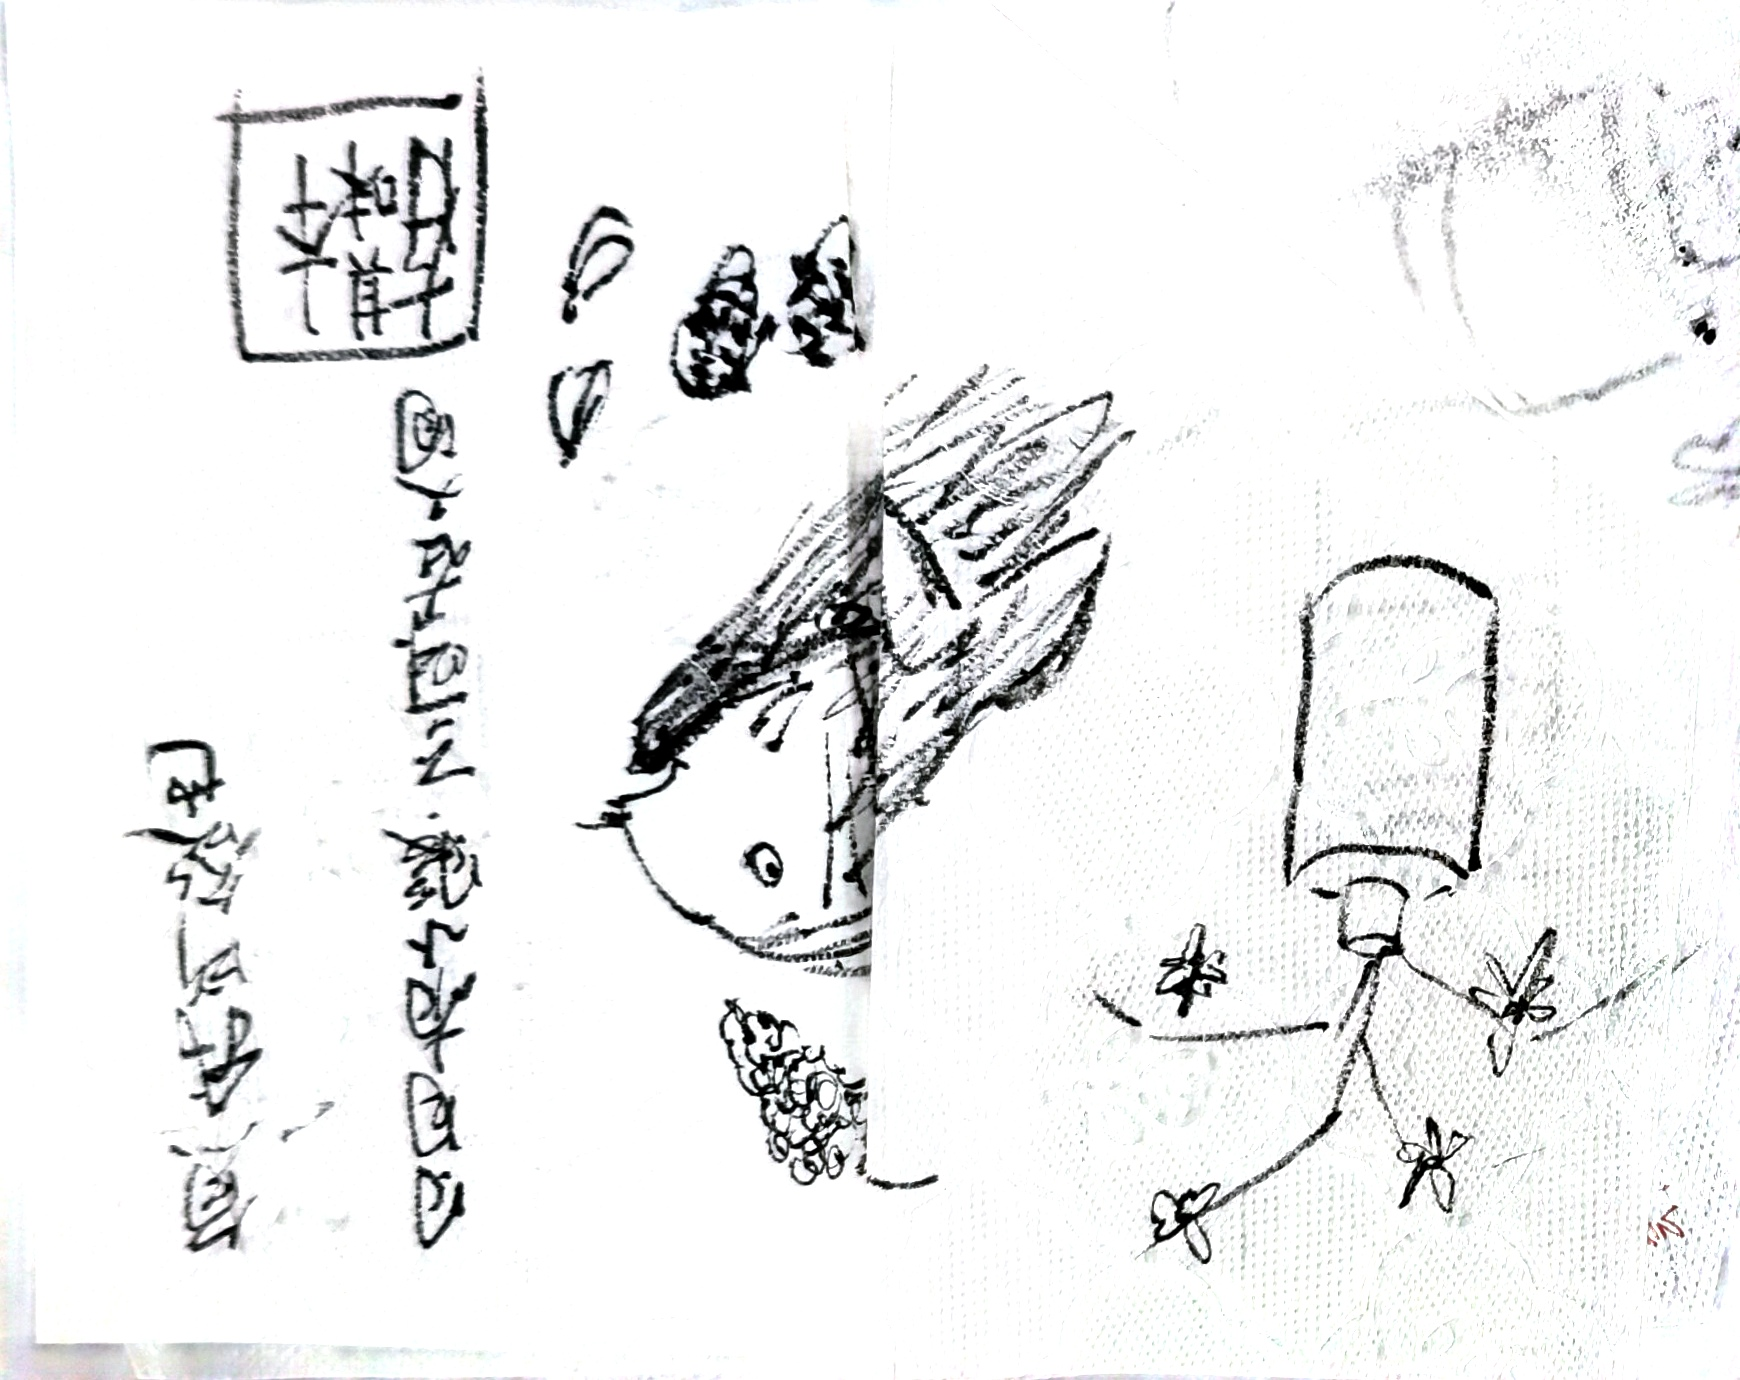
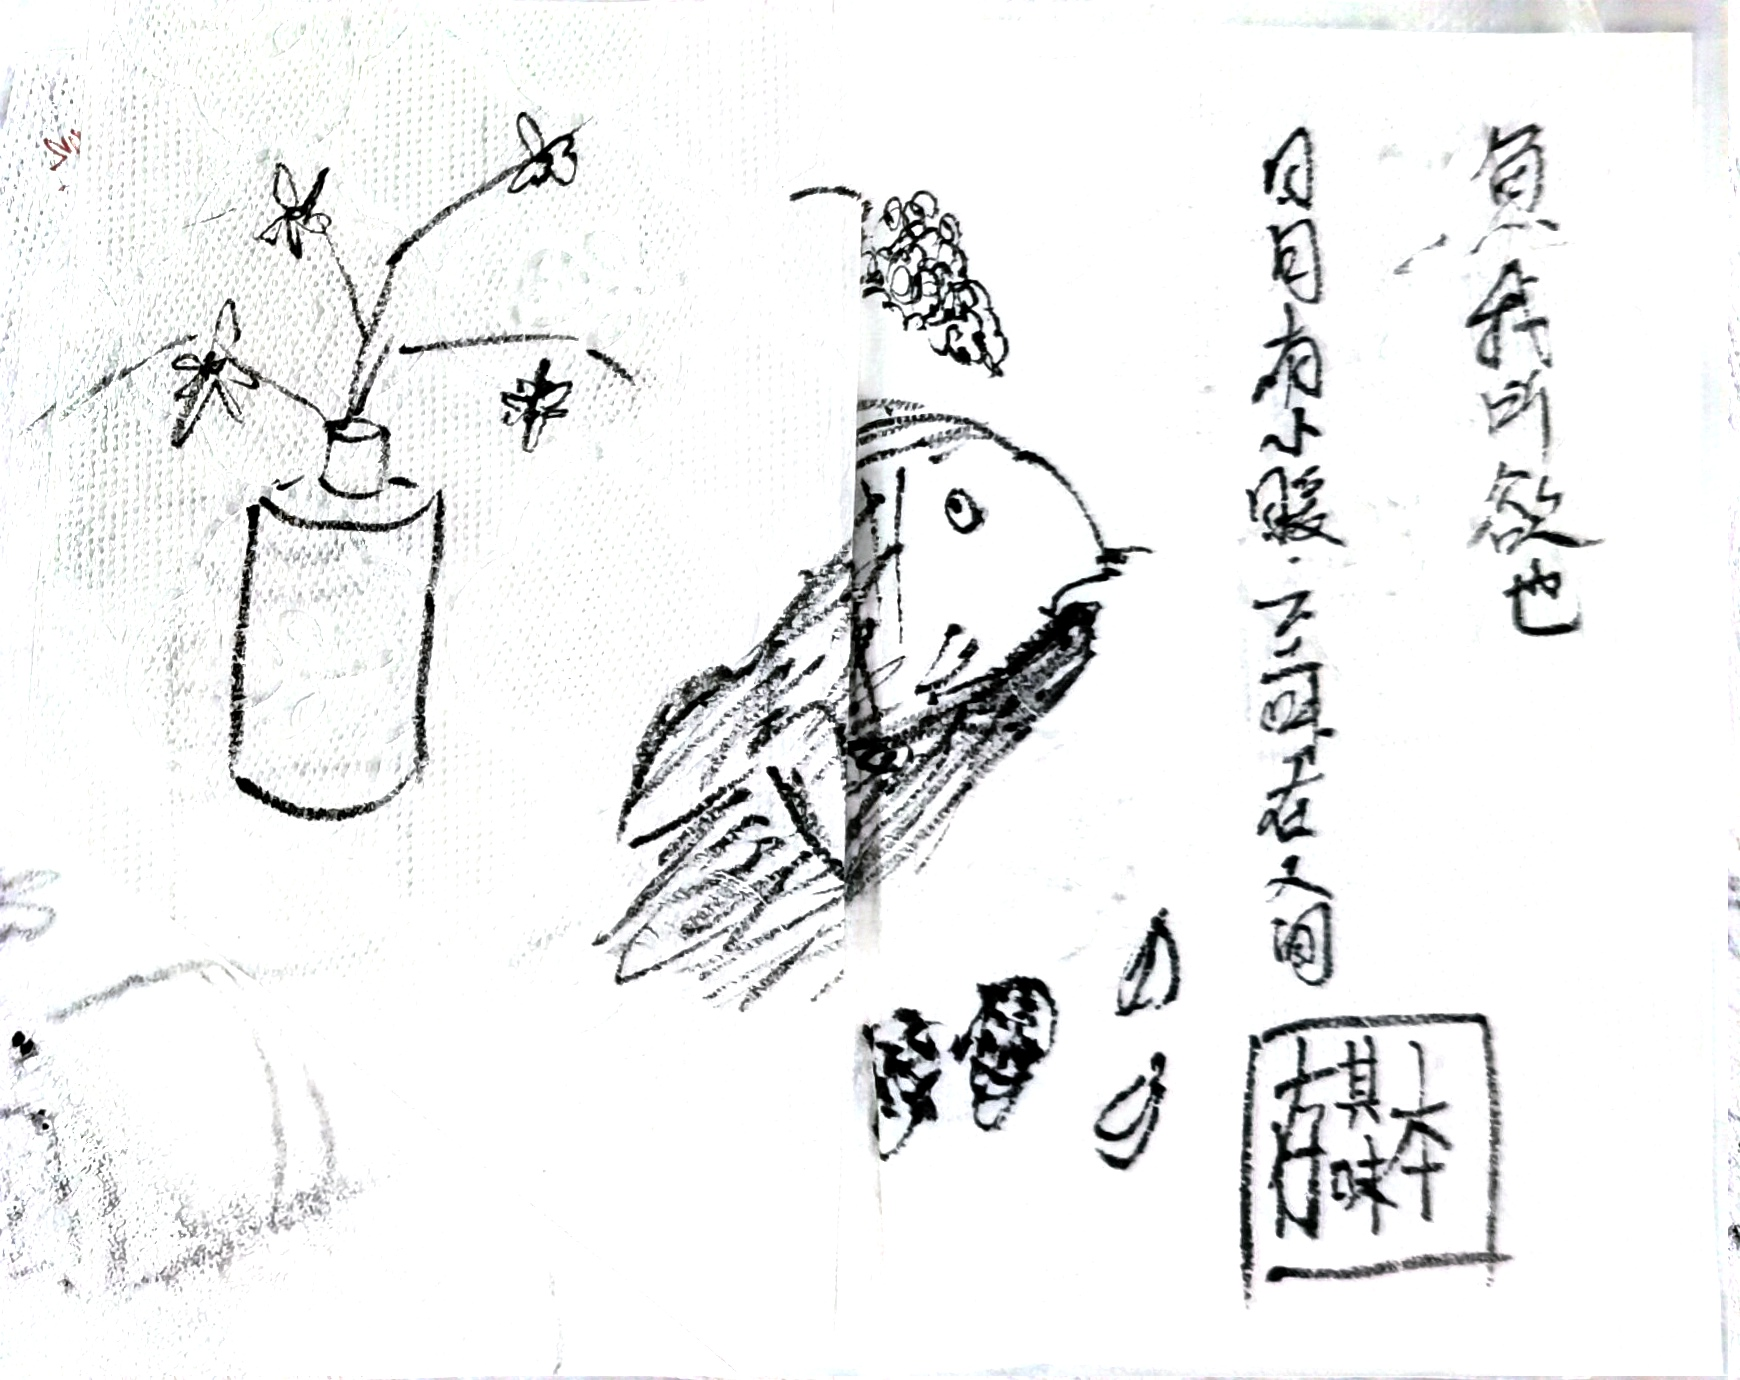
Update some of Xiaoli's work

diff --git a/docs/小丽/2.md b/docs/小丽/2.md
@@ -1,0 +1,69 @@
+# 二
+
+![](../../dataset/xiaoli/7.jpg)
+
+现在我们进入了圆规文的领域。这是《丽班和平万岁——“圆规文”及部分文献收藏集》的封面。
+
+> 圆规文是什么？有一段事件小丽坐在班长前面，由于小丽过于丽谱，班长经常以用圆规戳小丽为要挟让他不要太丽谱。最后达成协议：小丽写圆规文（即丽谱的文章），班长不再戳小丽。这一协议在下面有图片。
+
+![](../../dataset/xiaoli/8.jpg)
+
+这是上文所说的《丽班互不侵犯条约》。这是开的《苏德互不侵犯条约》的玩笑，当然这个条约的最终结果也差不多。
+
+由于条约一式两份，为了方便，小丽用钢笔在餐巾纸上写内容，然后撕成两层，因此图像质量非常糟糕，敬请认真阅读。
+
+![](../../dataset/xiaoli/9.jpg)
+
+这是小丽的圆规文，用《出师表》和《孙权劝学》为基础改写，应该很容易就可以看懂，除了……
+
+> 为什么是蚯蚓？纯属几次机缘巧合。生物课上老师说蚯蚓吃树叶；小丽踩树叶，说这是班长。所以就变成了“蚯蚓吃班长”。
+
+![](../../dataset/xiaoli/10.jpg)
+
+这是小丽拟写的《涂林东衙临时约法》，在标题上仿照[《中华民国临时约法》](https://zh.wikipedia.org/zh-cn/%E4%B8%AD%E8%8F%AF%E6%B0%91%E5%9C%8B%E8%87%A8%E6%99%82%E7%B4%84%E6%B3%95)。
+
+![](../../dataset/xiaoli/11.jpg)
+
+这是小丽画的（理论上来说是第一版）涂林币，纪念丽班合作，不过不久后就破裂了……
+
+![](../../dataset/xiaoli/12.jpg)
+
+这是小丽仿照[《龟虽寿》](https://zh.wikipedia.org/zh-cn/%E9%BE%9C%E9%9B%96%E5%A3%BD)写的《规虽寿》，纯属玩笑。
+
+![](../../dataset/xiaoli/13.jpg)
+
+这是班长根据南宋[交子](https://zh.wikipedia.org/zh-cn/%E4%BA%A4%E5%AD%90)图片绘制的“小丽新币”。与上面提到的一样，也是为了纪念丽班合作。
+
+![](../../dataset/xiaoli/14.jpg)
+
+小丽根据[《狂人日记》](https://zh.wikipedia.org/zh-cn/%E7%8B%82%E4%BA%BA%E6%97%A5%E8%AE%B0)改写了《老班日记》，将叙事的重点放在了圆规上，也算是呼应了这些文章的类型：圆规文。下面的配图和错字修改[^1]是雷总所做。
+
+![](../../dataset/xiaoli/15.jpg)
+
+小丽根据[《愚公移山》](https://zh.wikipedia.org/zh-cn/%E6%84%9A%E5%85%AC%E7%A7%BB%E5%B1%B1)改写的《愚公移规》，仅仅是一个玩笑，貌似没有深层含义。
+
+![](../../dataset/xiaoli/16.jpg)
+
+小丽自创的牛顿第四定律，事实上他确实吃过圆规[^2]。雷总进行了部分修改。
+
+![](../../dataset/xiaoli/17.jpg)
+
+这是小丽与班长签署的《丽班和平条约》的善后章程，主要补充规定了没能完全执行的部分，并且延长了原协议的有效期。不过从这里也可以看出条约履行得并不顺畅。
+
+![](../../dataset/xiaoli/18.jpg)
+
+本作品作者无法确定，经过本人极其不严谨的分析，嫌疑人如下：
+
+- 旺仔（字体相近）
+- 庄总（右上角的宣传语是他写的）
+- 小丽（这就不用解释了）
+
+这是涂林币的早期版本，当然并没有大量印刷，但是它的价值在于右上角的卖班长的宣传语，后来在其他资料中没有再次发现。
+
+![](../../dataset/xiaoli/19.jpg)
+
+……
+
+[^1]: 实际上这里不应该修改错字，因为我们伟大的鲁迅先生在《狂人日记》里也写的是“叶”。
+
+[^2]: 我的意思是，把圆规拆下来然后在嘴里嚼。（好像还是很奇怪？）

diff --git a/docs/小丽/4.md b/docs/小丽/4.md
@@ -1,0 +1,46 @@
+# 四
+
+![](../../dataset/xiaoli/26.jpg)
+
+这是小丽根据[《雁门太守行》](https://zh.wikisource.org/wiki/%E9%9B%81%E9%96%80%E5%A4%AA%E5%AE%88%E8%A1%8C)，用元素名称替换同音的字，写成的《雁钔钛守行》。
+
+![](../../dataset/xiaoli/27.jpg)
+
+这是一件标准扫描，从上至下分别是：
+
+- 小丽和班长保存了很长时间的树叶。关于为什么是树叶，请见前面几页关于“蚯蚓吃班长”的介绍。
+- 姚姐的丽谱句子。
+- 小丽根据已经丢失的小丽化工厂销售清单重新制作的样品。
+
+> 小丽化工厂是什么？小丽非常喜欢危险的化学试剂，他从姚姐和雪处用饭卡购买了很多化学药剂（硫酸铜、氨水、粪臭素、氢氧化钠、硫酸、硝酸等等等等），并使用这些试剂制作了很多虽然纯度不高，但是杀伤力（对于人和动物）很大的二级产品。
+
+> 顺便提一下，关于小丽化工厂的一些著名论断：  
+*这东西有强烈的腐蚀性！！！*，波波评硫酸铜；  
+*你这是违法的！！！*，卢瑟福评路中间的硫酸瓶子。
+
+下面进入**建议全文背诵**区域。以下两篇小丽和姚姐的作品[^1]，尤其是第一篇，将会附有非常长的解释，但是对于理解涂林非常重要，因此建议读者认真阅读。读透这两篇文章是提交涂林文字作品的前提！
+
+![](../../dataset/xiaoli/28.jpg)
+
+注释：
+
+- “涛妈赶着一群猪，跑到河边去喝水。”  
+这句看似波澜不惊的句子，其实是暗指涛妈（数学老师）所讲的猪喝水（即[将军饮马](https://baijiahao.baidu.com/s?id=1789572614038408621)）模型。按照小丽自己的说法，“跑”突出了涛妈讲通模型的急切。
+- “问这猪是咋死的，这头猪是笨死的。”  
+涛妈在讲解猪喝水模型时说：“你们噢……你知道那猪为什么没喝到水？笨死的！”
+- “放长线，钓大鱼，钓到一个 PAuX；PAuX，PAuX，PAuX 啊 PAuX！”  
+PAuX 是我们当时的年级主任。这句的对应事件是小丽拿了个旧修正带，当钓鱼的样子甩到楼下[^2]，一边在喊以上几句话。
+- “拉：你脑子有洞啊！”  
+拉拉是我们的班主任，她恰好看到了小丽的以上行为，并如此骂他。
+- “……采到一筐老班长。还没到家就吃光……”  
+见上文“蚯蚓吃班长”的典故。
+- “好一朵香香的老班长……尝一尝呀尝一尝”  
+试着用[《茉莉花》](https://zh.wikipedia.org/zh-cn/%E8%8C%89%E8%8E%89%E8%8A%B1_(%E6%B0%91%E6%AD%8C))（扬州版本）的旋律哼一哼这几句。
+- “大黄狗吃饭眼望着贼……小全等养活我长大。”  
+这几句改编自信天游[《回延安》](TODO: 添加链接)。
+
+> 为什么是大黄狗？徐贼初一时参加了管弦乐社团，吹奏单簧管，姚姐便丽谱地想到了谐音“大黄狗”。关于更多的“某黄狗”，请查看[TODO: 未完成页面]()。
+
+[^1]: 这二位是全涂林最丽谱的。
+
+[^2]: 我们教室在 5 楼。

diff --git a/docs/小丽/1.md b/docs/小丽/1.md
@@ -33,38 +33,6 @@
 > 为什么又是[砷](https://zh.wikipedia.org/zh-cn/%E7%A0%B7)？大家肯定都知道砷有毒（无论是单质还是大部分化合物），姚姐非常喜欢砷，常说：  
 *Arsenic!*
 
-![](../../dataset/xiaoli/7.jpg)
-
-现在我们进入了圆规文的领域。这是《丽班和平万岁——“圆规文”及部分文献收藏集》的封面。
-
-> 圆规文是什么？有一段事件小丽坐在班长前面，由于小丽过于丽谱，班长经常以用圆规戳小丽为要挟让他不要太丽谱。最后达成协议：小丽写圆规文（即丽谱的文章），班长不再戳小丽。这一协议在下面有图片。
-
-![](../../dataset/xiaoli/8.jpg)
-
-这是上文所说的《丽班互不侵犯条约》。这是开的《苏德互不侵犯条约》的玩笑，当然这个条约的最终结果也差不多。
-
-由于条约一式两份，为了方便，小丽用钢笔在餐巾纸上写内容，然后撕成两层，因此图像质量非常糟糕，敬请认真阅读。
-
-![](../../dataset/xiaoli/9.jpg)
-
-这是小丽的圆规文，用《出师表》和《孙权劝学》为基础改写，应该很容易就可以看懂，除了……
-
-> 为什么是蚯蚓？纯属几次机缘巧合。生物课上老师说蚯蚓吃树叶；小丽踩树叶，说这是班长。所以就变成了“蚯蚓吃班长”。
-
-![](../../dataset/xiaoli/10.jpg)
-
-这是小丽拟写的《涂林东衙临时约法》，在标题上仿照《中华民国临时约法》。
-
-![](../../dataset/xiaoli/11.jpg)
-
-这是小丽画的（理论上来说是第一版）涂林币，纪念丽班合作，不过不久后就破裂了……
-
-![](../../dataset/xiaoli/12.jpg)
-
-这是小丽仿照《龟虽寿》写的《规虽寿》，纯属玩笑。
-
-🚧**本页面正在施工**🚧
-
 [^1]: 关于丽谱的严格定义，请参见[总览](../index.md)页面。
 
 [^2]: 没有实验专用杠杆，用的是直尺和橡皮。

diff --git a/README.md b/README.md
@@ -74,7 +74,7 @@ tulinarchive
 
 ## 3. 协议
 
-涂林档案的代码部分，及除 `docs` 和 `dataset` 目录下所有文件，适用于 [The Unlicense](https://unlicense.org/)；文档部分，适用于 [CC0](https://creativecommons.org/public-domain/cc0/) 协议。放弃所有权利。
+涂林档案的代码部分，即除 `docs` 和 `dataset` 目录下所有文件，适用于 [The Unlicense](https://unlicense.org/)；文档部分，适用于 [CC0](https://creativecommons.org/public-domain/cc0/) 协议。放弃所有权利。
 
 您可以自由复制、分发、修改、再发布、售卖本作品，并且没有署名的强制要求。
 

diff --git a/docs/小丽/3.md b/docs/小丽/3.md
@@ -1,0 +1,15 @@
+# 三
+
+![](../../dataset/xiaoli/20.jpg)
+
+![](../../dataset/xiaoli/21.jpg)
+
+![](../../dataset/xiaoli/22.jpg)
+
+![](../../dataset/xiaoli/23.jpg)
+
+![](../../dataset/xiaoli/24.jpg)
+
+![](../../dataset/xiaoli/25.jpg)
+
+以上是小丽的“日拱一卒”系列，每天绘制了一幅生活场景，主要取材于汪曾祺的散文，可以自行阅读画旁的文字了解内容含义。当然很有趣、不可忽略的是印章的内容，有文气的“存其本味”，有“奇画”，当然还有“丽谱”。
